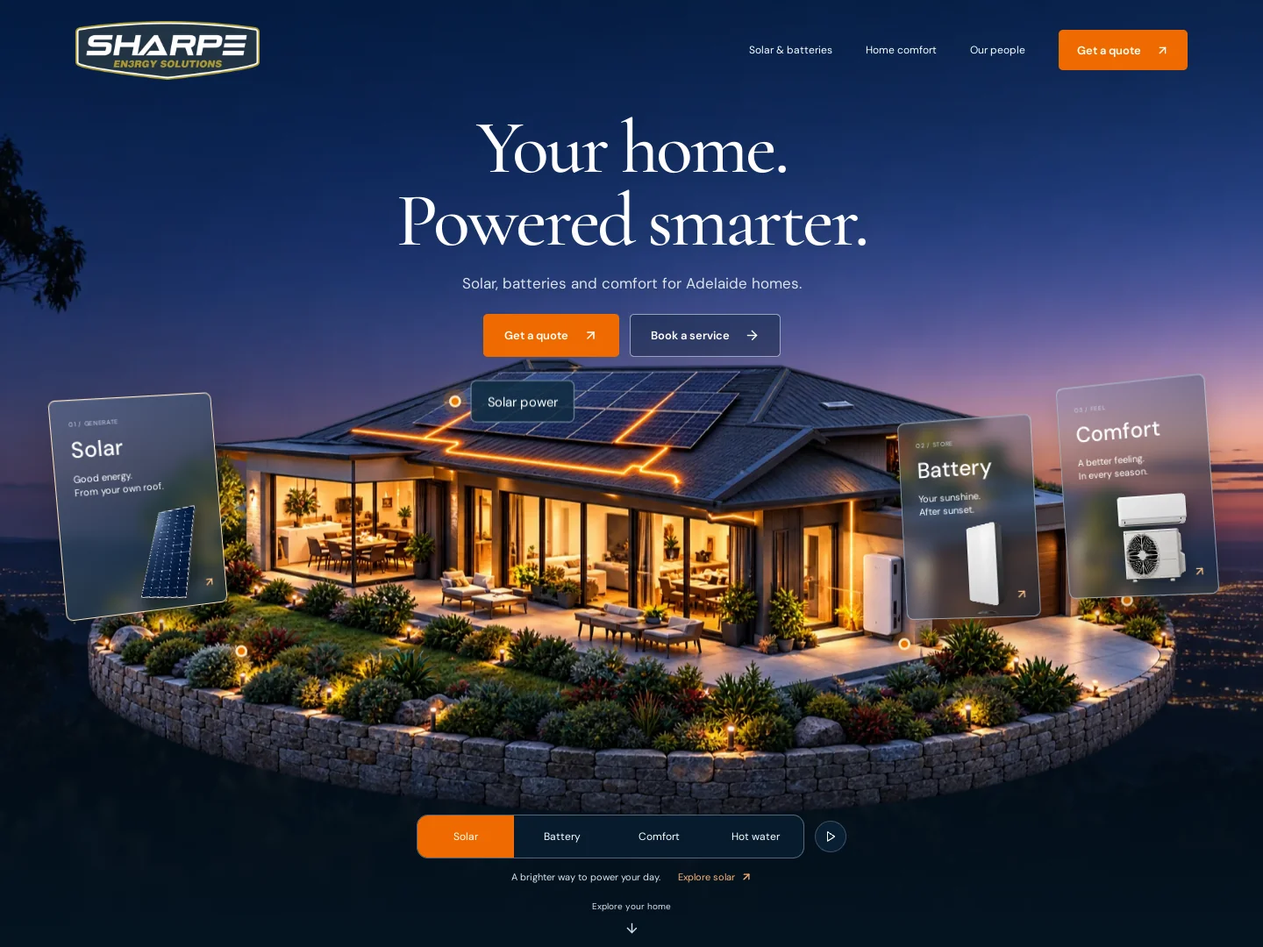
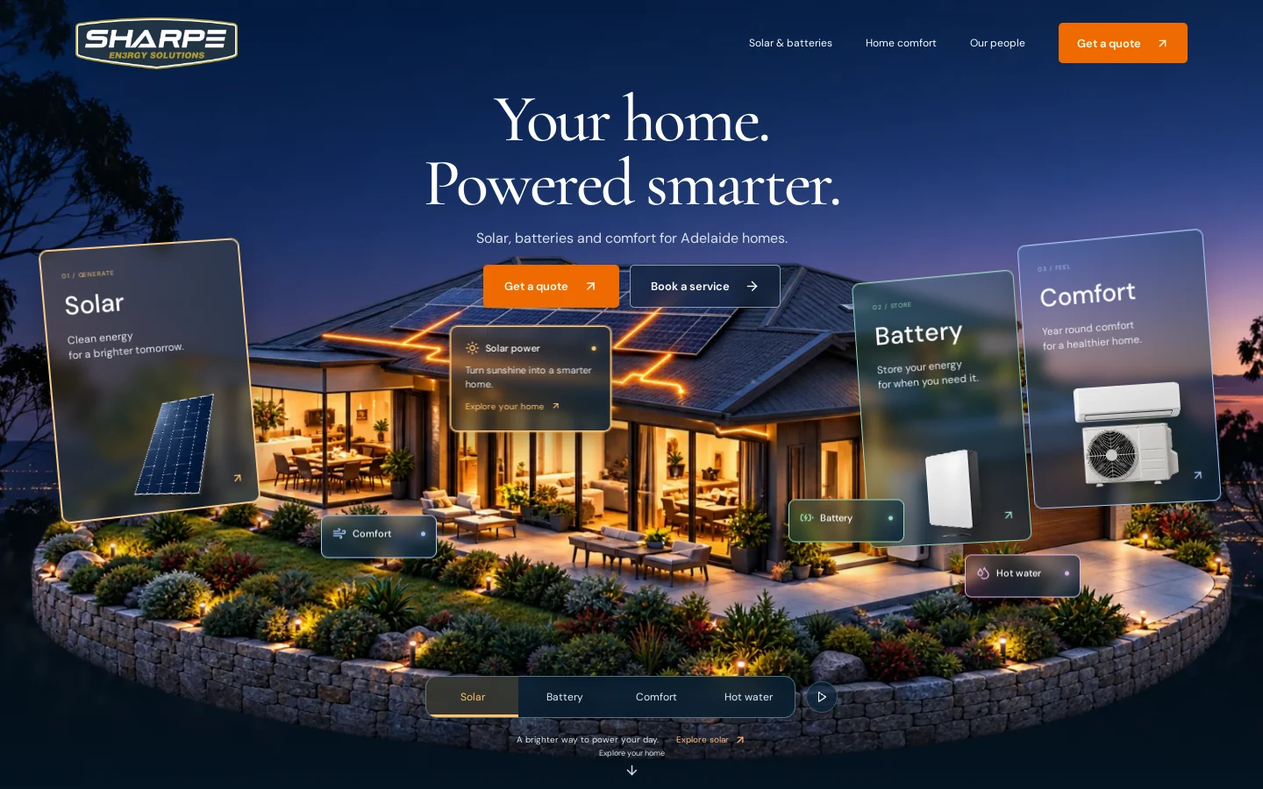
Reveal house-only hero on scroll and bring colour-coded glass service cards to the foreground

diff --git a/src/App.tsx b/src/App.tsx
@@ -3,6 +3,7 @@ import { ArrowDown, ArrowUpRight, ArrowRight, BatteryCharging, Sun, Wind, Drople
 import { PHONE, QUOTE_URL, SERVICE_URL, services } from './data';
 import type { ServiceId } from './data';
 import HeroScene from './HeroScene';
+import { useHeroReveal } from './useHeroReveal';
 const icons = { solar:Sun, battery:BatteryCharging, comfort:Wind, water:Droplets };
 function useReducedMotion() {
  const [reduced,setReduced]=useState(()=>window.matchMedia('(prefers-reduced-motion: reduce)').matches);
@@ -11,6 +12,7 @@ function useReducedMotion() {
 function Device({type}:{type:ServiceId}) {return <div className={`device device-${type}`} aria-hidden="true"/>}
 function App(){
  const [active,setActive]=useState<ServiceId>('solar');const [menu,setMenu]=useState(false);const reduced=useReducedMotion();const [paused,setPaused]=useState(false);const [inView,setInView]=useState(true);const hero=useRef<HTMLElement>(null);const tabs=useRef<(HTMLButtonElement|null)[]>([]);const selected=services.find(s=>s.id===active)!;const Icon=icons[active];
+ const story=useRef<HTMLDivElement>(null);const ready=useHeroReveal(story);
  const [choice,setChoice]=useState('solar');const [suburb,setSuburb]=useState('');const [quoteReady,setQuoteReady]=useState(false);
  useEffect(()=>{const io=new IntersectionObserver(([e])=>setInView(e.isIntersecting),{threshold:0.05});if(hero.current)io.observe(hero.current);return()=>io.disconnect()},[]);
  useEffect(()=>{const els=document.querySelectorAll('.reveal');const io=new IntersectionObserver(es=>es.forEach(e=>{if(e.isIntersecting){e.target.classList.add('revealed');io.unobserve(e.target)}}),{threshold:0.1});els.forEach(el=>io.observe(el));return()=>io.disconnect()},[]);
@@ -18,23 +20,27 @@ function App(){
  const closeMenu=()=>setMenu(false);
  return <>
  <a className="skip-link" href="#solutions">Skip to content</a>
- <header className="header"><a className="brand" href="#home" aria-label="Sharpe En3rgy Solutions home"><img src="/images/logo.webp" alt="Sharpe En3rgy Solutions" width="600" height="190"/></a><nav aria-label="Main navigation" className={menu?'nav nav-open':'nav'}><a href="#solar-battery" onClick={closeMenu}>Solar & batteries</a><a href="#solutions" onClick={closeMenu}>Home comfort</a><a href="#about" onClick={closeMenu}>Our people</a><a className="button button-small" href={QUOTE_URL}>Get a quote <ArrowUpRight size={15}/></a></nav><button className="menu-toggle" aria-label={menu?'Close menu':'Open menu'} aria-expanded={menu} onClick={()=>setMenu(!menu)}>{menu?<X/>:<Menu/>}</button></header>
+
  <main>
+ <div className="hero-story" ref={story}>
  <section className="hero" id="home" ref={hero} aria-labelledby="hero-heading">
+ <header className="header" inert={!ready} aria-hidden={!ready}><a className="brand" href="#home" aria-label="Sharpe En3rgy Solutions home"><img src="/images/logo.webp" alt="Sharpe En3rgy Solutions" width="600" height="190"/></a><nav aria-label="Main navigation" className={menu?'nav nav-open':'nav'}><a href="#solar-battery" onClick={closeMenu}>Solar & batteries</a><a href="#solutions" onClick={closeMenu}>Home comfort</a><a href="#about" onClick={closeMenu}>Our people</a><a className="button button-small" href={QUOTE_URL}>Get a quote <ArrowUpRight size={15}/></a></nav><button className="menu-toggle" aria-label={menu?'Close menu':'Open menu'} aria-expanded={menu} onClick={()=>setMenu(!menu)}>{menu?<X/>:<Menu/>}</button></header>
  <div className="hero-atmosphere"/><div className="hero-glow"/>
- <div className="hero-copy"><h1 id="hero-heading">Your home.<br/><em>Powered smarter.</em></h1><p className="hero-subtitle">Solar, batteries and comfort for Adelaide homes.</p><div className="hero-actions"><a className="button" href={QUOTE_URL}>Get a quote <ArrowUpRight size={17}/></a><a className="button button-glass" href={SERVICE_URL}>Book a service <ArrowRight size={17}/></a></div></div>
- <div className="home-experience"><HeroScene active={active} paused={paused||reduced||!inView} onSelect={setActive}/>
- <button className={`floating-card float-solar ${active==='solar'?'current':''}`} onClick={()=>setActive('solar')} aria-pressed={active==='solar'}><span className="mini-eyebrow">01 / GENERATE</span><h3>Solar</h3><p>Good energy.<br/>From your own roof.</p><Device type="solar"/><span className="card-corner"><ArrowUpRight size={15}/></span></button>
- <button className={`floating-card float-battery ${active==='battery'?'current':''}`} onClick={()=>setActive('battery')} aria-pressed={active==='battery'}><span className="mini-eyebrow">02 / STORE</span><h3>Battery</h3><p>Your sunshine.<br/>After sunset.</p><Device type="battery"/><span className="card-corner"><ArrowUpRight size={15}/></span></button>
- <button className={`floating-card float-comfort ${active==='comfort'?'current':''}`} onClick={()=>setActive('comfort')} aria-pressed={active==='comfort'}><span className="mini-eyebrow">03 / FEEL</span><h3>Comfort</h3><p>A better feeling.<br/>In every season.</p><Device type="comfort"/><span className="card-corner"><ArrowUpRight size={15}/></span></button>
+ <div className="hero-copy" inert={!ready} aria-hidden={!ready}><h1 id="hero-heading">Your home.<br/><em>Powered smarter.</em></h1><p className="hero-subtitle">Solar, batteries and comfort for Adelaide homes.</p><div className="hero-actions"><a className="button" href={QUOTE_URL}>Get a quote <ArrowUpRight size={17}/></a><a className="button button-glass" href={SERVICE_URL}>Book a service <ArrowRight size={17}/></a></div></div>
+ <div className="home-experience"><HeroScene active={active} paused={paused||reduced||!inView} ready={ready} onSelect={setActive}/>
+ <button className={`floating-card float-solar service-solar ${active==='solar'?'current':''}`} disabled={!ready} aria-hidden={!ready} onClick={()=>setActive('solar')} aria-pressed={active==='solar'}><span className="mini-eyebrow">01 / GENERATE</span><h3>Solar</h3><p>Clean energy<br/>for a brighter tomorrow.</p><Device type="solar"/><span className="card-corner"><ArrowUpRight size={15}/></span></button>
+ <button className={`floating-card float-battery service-battery ${active==='battery'?'current':''}`} disabled={!ready} aria-hidden={!ready} onClick={()=>setActive('battery')} aria-pressed={active==='battery'}><span className="mini-eyebrow">02 / STORE</span><h3>Battery</h3><p>Store your energy<br/>for when you need it.</p><Device type="battery"/><span className="card-corner"><ArrowUpRight size={15}/></span></button>
+ <button className={`floating-card float-comfort service-comfort ${active==='comfort'?'current':''}`} disabled={!ready} aria-hidden={!ready} onClick={()=>setActive('comfort')} aria-pressed={active==='comfort'}><span className="mini-eyebrow">03 / FEEL</span><h3>Comfort</h3><p>Year round comfort<br/>for a healthier home.</p><Device type="comfort"/><span className="card-corner"><ArrowUpRight size={15}/></span></button>
  <div className="scene-caption" aria-live="polite"><Icon size={16}/><span>{selected.title}</span><span className="caption-dot"/>{selected.short}</div>
  </div>
- <div className="explorer-controls"><div className="service-tabs" role="tablist" aria-label="Explore your home">{services.map((s,i)=><button key={s.id} ref={el=>{tabs.current[i]=el}} id={`tab-${s.id}`} role="tab" aria-selected={active===s.id} aria-controls="service-detail" tabIndex={active===s.id?0:-1} onClick={()=>setActive(s.id)} onKeyDown={e=>{let next=i;if(e.key==='ArrowRight')next=(i+1)%4;else if(e.key==='ArrowLeft')next=(i+3)%4;else if(e.key==='Home')next=0;else if(e.key==='End')next=3;else return;e.preventDefault();setActive(services[next].id);tabs.current[next]?.focus()}}>{s.label}</button>)}</div><button className="motion-toggle" onClick={()=>setPaused(!paused)} disabled={reduced} aria-label={paused?'Resume gentle motion':'Pause gentle motion'}>{paused||reduced?<Play size={14}/>:<Pause size={14}/>}</button></div>
- <div className="explorer-detail" id="service-detail" role="tabpanel" aria-labelledby={`tab-${active}`}><span>{selected.short}</span><a href={`#${active}`}>Explore {selected.label.toLowerCase()} <ArrowUpRight size={14}/></a></div>
- <a className="scroll-cue" href="#solutions"><span>Explore your home</span><ArrowDown size={17}/></a>
+ <div className="explorer-controls" inert={!ready} aria-hidden={!ready}><div className="service-tabs" role="tablist" aria-label="Explore your home">{services.map((s,i)=><button className={`service-${s.id}`} key={s.id} ref={el=>{tabs.current[i]=el}} id={`tab-${s.id}`} role="tab" aria-selected={active===s.id} aria-controls="service-detail" tabIndex={active===s.id?0:-1} onClick={()=>setActive(s.id)} onKeyDown={e=>{let next=i;if(e.key==='ArrowRight')next=(i+1)%4;else if(e.key==='ArrowLeft')next=(i+3)%4;else if(e.key==='Home')next=0;else if(e.key==='End')next=3;else return;e.preventDefault();setActive(services[next].id);tabs.current[next]?.focus()}}>{s.label}</button>)}</div><button className="motion-toggle" onClick={()=>setPaused(!paused)} disabled={reduced} aria-label={paused?'Resume gentle motion':'Pause gentle motion'}>{paused||reduced?<Play size={14}/>:<Pause size={14}/>}</button></div>
+ <div inert={!ready} aria-hidden={!ready} className="explorer-detail" id="service-detail" role="tabpanel" aria-labelledby={`tab-${active}`}><span>{selected.short}</span><a href={`#${active}`}>Explore {selected.label.toLowerCase()} <ArrowUpRight size={14}/></a></div>
+ <a className="scroll-cue" inert={!ready} aria-hidden={!ready} href="#solutions"><span>Explore your home</span><ArrowDown size={17}/></a>
+ <button className="intro-cue" aria-label="Explore the connected home" onClick={()=>{if(story.current){const y=window.scrollY+story.current.getBoundingClientRect().top+(hero.current?.offsetHeight||window.innerHeight)*.65;window.scrollTo({top:y,behavior:reduced?'instant':'smooth'})}}}><span>SCROLL TO EXPLORE</span><ArrowDown size={18}/></button>
  </section>
- <section className="solutions soft-section" id="solutions" aria-labelledby="solutions-title"><div className="section-photo"/><div className="solutions-shade"/><div className="container solutions-layout"><div className="section-intro reveal"><p className="eyebrow light"><span/> ONE CONNECTED HOME</p><h2 id="solutions-title">One home.<br/>Connected<br/>solutions.</h2><p>A smarter, more comfortable and more efficient home, all working together.</p><a className="text-link light-link" href={QUOTE_URL}>Let’s talk about your home <ArrowUpRight size={18}/></a></div><div className="services-grid">{services.map((s,i)=>{const I=icons[s.id];return <a className="service-card glass reveal" href={s.url} key={s.id} id={s.id} style={{transitionDelay:`${i*60}ms`}}><div className="service-top"><I size={20}/><span>0{i+1}</span></div><Device type={s.id}/><div><h3>{s.title}</h3><p>{s.short}</p></div><ArrowUpRight className="service-arrow" size={19}/></a>})}</div></div></section>
- <section className="solar-feature cream soft-section" id="solar-battery"><div className="container feature-layout"><div className="feature-image reveal"><img src="/images/solar-roof.webp" alt="Illustrative rooftop solar panels in Adelaide sunshine" width="1672" height="941" loading="lazy"/><div className="image-note glass"><div><strong>Battery storage</strong><p>Store excess solar<br/>and use it when<br/>you need it.</p></div><Device type="battery"/></div></div><div className="feature-copy reveal"><span className="feature-number" aria-hidden="true">01</span><h2>Make more<br/>of your solar.</h2><p>Find a solar and battery solution tailored to your home.</p><a className="text-link" href={QUOTE_URL}>Explore Solar & Batteries <ArrowUpRight size={18}/></a><div className="feature-points"><span><Sun size={17}/> Energy from your roof</span><span><BatteryCharging size={17}/> Storage for later</span></div></div></div></section>
+ </div>
+ <section className="solutions soft-section" id="solutions" aria-labelledby="solutions-title"><div className="section-photo"/><div className="solutions-shade"/><div className="container solutions-layout"><div className="section-intro reveal"><p className="eyebrow light"><span/> ONE CONNECTED HOME</p><h2 id="solutions-title">One home.<br/>Connected<br/>solutions.</h2><p>A smarter, more comfortable and more efficient home, all working together.</p><a className="text-link light-link" href={QUOTE_URL}>Let’s talk about your home <ArrowUpRight size={18}/></a></div><div className="services-grid">{services.map((s,i)=>{const I=icons[s.id];return <a className={`service-card glass reveal service-${s.id}`} href={s.url} key={s.id} id={s.id} style={{transitionDelay:`${i*60}ms`}}><div className="service-top"><I size={20}/><span>0{i+1}</span></div><Device type={s.id}/><div><h3>{s.title}</h3><p>{s.short}</p></div><ArrowUpRight className="service-arrow" size={19}/></a>})}</div></div></section>
+ <section className="solar-feature cream soft-section" id="solar-battery"><div className="container feature-layout"><div className="feature-image reveal"><img src="/images/solar-roof.webp" alt="Illustrative rooftop solar panels in Adelaide sunshine" width="1672" height="941" loading="lazy"/><div className="image-note glass service-battery"><div><strong>Battery storage</strong><p>Store excess solar<br/>and use it when<br/>you need it.</p></div><Device type="battery"/></div></div><div className="feature-copy reveal"><span className="feature-number" aria-hidden="true">01</span><h2>Make more<br/>of your solar.</h2><p>Find a solar and battery solution tailored to your home.</p><a className="text-link" href={QUOTE_URL}>Explore Solar & Batteries <ArrowUpRight size={18}/></a><div className="feature-points"><span><Sun size={17}/> Energy from your roof</span><span><BatteryCharging size={17}/> Storage for later</span></div></div></div></section>
  <section className="process soft-section" id="process"><div className="section-photo"/><div className="process-shade"/><div className="container"><div className="process-heading reveal"><p className="eyebrow light"><span/> SIMPLE FROM THE START</p><h2>From first conversation<br/>to a better home.</h2><p>Good advice. The right fit. Support along the way.</p></div><div className="steps">{[{n:'01',title:'Talk to us',text:'Your routine, your space and what you want to improve. We start by listening.',I:MessageCircle},{n:'02',title:'Find your solution',text:'Explore solar, storage and comfort options suited to the way you live.',I:ClipboardList},{n:'03',title:'Installation & support',text:'Arrange installation or service, with a team you can come back to for support.',I:Wrench}].map(({n,title,text,I})=><article className="step glass reveal" key={n}><div><span className="step-number">{n}</span><I size={27}/></div><h3>{title}</h3><p>{text}</p></article>)}</div></div></section>
  <section className="about cream soft-section" id="about"><div className="container about-layout"><div className="about-copy reveal"><p className="eyebrow"><span/> RIGHT HERE IN ADELAIDE</p><h2>Local people.<br/>Practical advice.</h2><p>Helping Adelaide homeowners choose the right solution.</p><a className="text-link" href="tel:+61882946333">Talk to the team <ArrowUpRight size={18}/></a><div className="location-pill"><MapPin size={18}/><span>49 Port Road, Thebarton<br/><small>Adelaide, South Australia</small></span></div></div><div className="about-image reveal"><img src="/images/team.webp" alt="En3rgy Solutions technician working on rooftop solar, from the company's website" width="1000" height="667" loading="lazy"/><span className="photo-label glass">GOOD ENERGY STARTS WITH GOOD PEOPLE</span></div></div></section>
  <section className="service-banner soft-section"><div className="container banner-layout"><div className="reveal"><p className="eyebrow light"><span/> SERVICE & SUPPORT</p><h2>Keep your home<br/>working at its best.</h2><p>Efficient, reliable air conditioning<br/>for year round comfort.</p><a className="button" href={SERVICE_URL}>Book a service <ArrowUpRight size={18}/></a></div></div></section>

diff --git a/src/hero.css b/src/hero.css
@@ -1,0 +1,120 @@
+/* The house opens alone. Native page scroll reveals the connected-home UI. */
+.hero-story{--hero-progress:0;--copy-opacity:0;--card-opacity:0;height:185svh;min-height:1250px;position:relative;background:#061827}
+.hero-story .hero{position:sticky;top:0;height:100svh;min-height:620px;padding:0;text-align:center;overflow:hidden}
+.hero .header{z-index:12;padding:20px 6%;opacity:var(--copy-opacity);transform:translateY(calc((1 - var(--hero-progress))*-12px))}
+.hero .brand img{width:185px}
+.hero .hero-atmosphere{background:linear-gradient(#05192a66,#05192a00 48%,#041321 100%),url('/images/twilight.webp') center/cover}
+.hero-copy{position:absolute;z-index:8;left:0;right:0;top:11%;padding:0 20px;opacity:var(--copy-opacity);transform:translateY(calc((1 - var(--hero-progress))*20px));pointer-events:auto}
+.hero-copy h1{font-size:clamp(56px,5.3vw,84px)}
+.hero-copy .hero-subtitle{font-size:16px;margin-top:14px}
+.hero-copy .hero-actions{margin-top:18px}
+.home-experience{position:absolute;inset:0;width:100%;height:100%;max-width:none;margin:0}
+.hero .scene{position:absolute;inset:0;transform:none;z-index:1}
+.house-position{position:absolute;width:min(96%,calc(100svh * 1.75));aspect-ratio:1.5;left:50%;top:50%;transform:translate(-50%,-50%) translateY(calc(var(--hero-progress)*12svh))}
+.hero .house-parallax{position:relative;width:100%;height:100%;transform:translate(var(--px,0px),var(--py,0px));transition:transform .35s ease-out}
+.hero .house-float{position:relative;width:100%;height:100%;animation:float 8s ease-in-out infinite}
+.hero .hero-house{position:absolute;inset:0;width:100%;height:100%;object-fit:contain;animation:house-arrive 1.1s ease-out both}
+.hero .scene.is-paused .house-float{animation-play-state:paused}
+.hero .scene.is-paused .house-parallax{transform:none}
+.intro-cue{position:absolute;z-index:14;bottom:7%;left:50%;transform:translateX(-50%);display:flex;flex-direction:column;align-items:center;gap:15px;padding:16px 24px;min-height:60px;background:#09233a44;border:1px solid #a9c7dd40;border-radius:30px;color:#e4edf5;opacity:calc(1 - var(--hero-progress));font-size:9px;letter-spacing:.2em}
+.hero-story:has(.hero-copy:not([inert])) .intro-cue{pointer-events:none;visibility:hidden}
+.hero .floating-card{--service-accent:#ffb760;--service-tint:#d8912522;display:flex;flex-direction:column;justify-content:flex-start;align-items:flex-start;position:absolute;z-index:4;width:clamp(180px,16vw,235px);height:clamp(280px,34svh,330px);padding:24px 22px;border:1px solid color-mix(in srgb,var(--service-accent) 60%,#dcecff);border-radius:9px;text-align:left;background:linear-gradient(135deg,var(--service-tint),#0a243abf);backdrop-filter:blur(7px);box-shadow:0 16px 35px #0003,inset 0 1px #fff3;opacity:var(--card-opacity);transition:border-color .25s,box-shadow .25s}
+.hero .floating-card:disabled{cursor:default}
+.hero .floating-card.current{box-shadow:0 0 0 1px var(--service-accent),0 16px 38px #0004}
+.hero .floating-card h3{font-size:clamp(24px,2vw,30px);margin:10px 0 12px}
+.hero .floating-card p{font-size:12px;line-height:1.45;color:#e7edf3;max-width:150px}
+.hero .mini-eyebrow{font-size:7px;color:var(--service-accent);letter-spacing:.13em}
+.hero .card-corner{color:var(--service-accent);bottom:16px;right:16px}
+.hero .float-solar{left:4%;top:31%;transform:perspective(1100px) rotateY(10deg) rotateZ(-5deg) translateY(calc((1 - var(--hero-progress))*28px))}
+.hero .float-battery{right:19%;top:35%;width:clamp(160px,13vw,200px);transform:perspective(1100px) rotateY(-8deg) rotateZ(-4deg) translateY(calc((1 - var(--hero-progress))*34px))}
+.hero .float-comfort{right:4%;top:30%;width:clamp(180px,15vw,225px);transform:perspective(1100px) rotateY(-10deg) rotateZ(-4deg) translateY(calc((1 - var(--hero-progress))*40px))}
+.device{aspect-ratio:1.5;background-size:200% 200%}
+.hero .floating-card .device{width:80%;height:auto;aspect-ratio:1.5;right:5%;bottom:10px}
+.hero .float-comfort .device{width:94%;right:1%;bottom:8px}
+.hero .float-battery .device{width:84%;right:4%;bottom:8px}
+.service-solar,.hotspot-solar{--service-accent:#ffc16b;--service-tint:#c3832938}
+.service-battery,.hotspot-battery{--service-accent:#99debb;--service-tint:#3b987538}
+.service-comfort,.hotspot-comfort{--service-accent:#a4caff;--service-tint:#518fd738}
+.service-water,.hotspot-water{--service-accent:#e6b1ee;--service-tint:#a45cac38}
+.hero .floating-card.service-battery,.hero .floating-card.service-comfort{border-color:var(--service-accent)}
+.hero .floating-card.service-solar{--service-accent:#ffc16b;--service-tint:#c3832938}
+.hero .floating-card.service-battery{--service-accent:#99debb;--service-tint:#3b987538}
+.hero .floating-card.service-comfort{--service-accent:#a4caff;--service-tint:#518fd738}
+/* Small service cards live above the permanent cards, independently of house motion. */
+.spot-overlay{position:absolute;inset:0;z-index:6;pointer-events:none;opacity:var(--card-opacity)}
+.hero .hotspot{position:absolute;transform:translate(-50%,-50%);display:flex;align-items:stretch;flex-direction:column;gap:0;text-align:left;width:132px;min-height:49px;padding:12px;border:1px solid var(--service-accent);border-radius:8px;background:linear-gradient(135deg,var(--service-tint),#092135e8);backdrop-filter:blur(6px);color:white;box-shadow:0 8px 25px #0004;pointer-events:auto;transition:width .2s,box-shadow .2s}
+.hero .hotspot.selected{width:185px;min-height:120px;padding:16px;box-shadow:0 0 0 1px var(--service-accent),0 10px 30px #0005}
+.hotspot-heading{display:flex;align-items:center;gap:7px;font-size:11px;white-space:nowrap}
+.hotspot-heading strong{font-weight:500}
+.hotspot-heading>svg{color:var(--service-accent);flex-shrink:0}
+.hero .hotspot-dot{margin-left:auto;width:5px;height:5px;box-shadow:0 0 9px var(--service-accent);border:0;background:var(--service-accent);flex-shrink:0}
+.hotspot-description,.hotspot-more{display:none}
+.selected .hotspot-description{display:block;font-size:11px;line-height:1.45;margin-top:10px;color:#e1e8ef}
+.selected .hotspot-more{display:flex;align-items:center;gap:7px;font-size:10px;margin-top:10px;color:var(--service-accent)}
+.hero .hotspot-solar{left:42%;top:48%}
+.hero .hotspot-battery{left:67%;top:66%}
+.hero .hotspot-comfort{left:30%;top:68%}
+.hero .hotspot-water{left:81%;top:73%}
+.hero .explorer-controls{position:absolute;z-index:9;bottom:9%;left:0;right:0;margin:0;opacity:var(--card-opacity);transform:translateY(calc((1 - var(--hero-progress))*20px))}
+.hero .service-tabs{border-color:#b4cad578;background:#071e30e0}
+.hero .service-tabs button{min-width:105px;min-height:46px;color:#e3edf5}
+.hero .service-tabs button[aria-selected=true]{background:var(--service-tint);color:var(--service-accent);box-shadow:inset 0 -3px var(--service-accent)}
+.hero .explorer-detail{position:absolute;left:0;right:0;bottom:5.5%;z-index:9;margin:0;opacity:var(--card-opacity);font-size:10px}
+.hero .scroll-cue{position:absolute;left:0;right:0;bottom:1.4%;z-index:9;margin:0;opacity:var(--card-opacity);font-size:9px;gap:5px}
+/* Cards in the following section use the same glass, colours and product proportions. */
+.service-card{border-color:color-mix(in srgb,var(--service-accent) 65%,#ffffff);background:linear-gradient(135deg,var(--service-tint),#082438bf);min-height:225px;padding:23px 22px}
+.service-card h3{font-size:21px}.service-card p{max-width:140px;font-size:12px}
+.service-card .device{width:145px;height:auto;aspect-ratio:1.5;right:-2px;bottom:5px}
+.service-card.service-comfort .device{width:165px;right:-8px;bottom:0}
+.service-card .service-arrow{color:var(--service-accent)}
+.image-note .device{width:140px;height:auto;aspect-ratio:1.5;bottom:17px;right:-8px}
+@keyframes house-arrive{from{opacity:0;translate:0 10px}to{opacity:1;translate:0 0}}
+@media(max-width:1100px){
+ .hero .header{padding:18px 5%}.hero .brand img{width:155px}.hero-copy h1{font-size:65px}.hero-copy .hero-subtitle{font-size:14px}
+ .hero .floating-card{width:168px;height:245px;padding:20px 17px}.hero .floating-card h3{font-size:24px}.hero .floating-card p{font-size:11px}
+ .hero .float-solar{left:3%;top:32%}.hero .float-battery{right:19%;width:140px;top:36%}.hero .float-comfort{right:3%;width:160px;top:31%}
+ .hero .hotspot-solar{left:42%;top:51%}.hero .hotspot-comfort{left:29%;top:69%}.hero .hotspot-battery{left:66%;top:68%}
+ .service-card{min-height:205px;padding:20px 16px}.service-card h3{font-size:18px}.service-card p{max-width:105px;font-size:11px}.service-card .device{width:125px}.service-card.service-comfort .device{width:135px}
+}
+@media(max-width:800px) and (min-width:601px){
+ .hero-copy{top:12%}.hero-copy h1{font-size:63px}.hero-copy .hero-subtitle{font-size:13px}
+ .house-position{width:100%;transform:translate(-50%,-50%) translateY(calc(var(--hero-progress)*12svh))}
+ .hero .floating-card{width:150px;height:230px;padding:18px 15px}.hero .float-solar{left:3%;top:35%}.hero .float-battery{width:125px;right:21%;top:38%}.hero .float-comfort{width:145px;right:3%;top:34%}
+ .hero .floating-card h3{font-size:23px}.hero .floating-card p{font-size:10px}.hero .hotspot-solar{top:55%}.hero .hotspot-battery{top:70%}.hero .hotspot-comfort{top:72%}.hero .hotspot-water{top:75%}
+ .hero .hotspot{width:125px}.hero .hotspot.selected{width:162px;min-height:108px;padding:13px}
+ .service-card h3{font-size:16px}.service-card p{max-width:94px;font-size:10px}.service-card .device{width:110px}.service-card.service-comfort .device{width:120px}
+}
+@media(max-width:600px){
+ .hero-story{height:180svh;min-height:1080px}.hero-story .hero{height:100svh;min-height:600px}
+ .hero .header{padding:16px 20px}.hero .brand img{width:140px}
+ .hero-copy{top:12%;padding:0 16px}.hero-copy h1{font-size:clamp(41px,12vw,58px)}.hero-copy .hero-subtitle{font-size:12px;max-width:290px;margin:13px auto 0}.hero-copy .hero-actions{margin-top:18px}
+ .hero-copy .hero-actions .button{font-size:11px;padding:12px 14px;min-height:44px;gap:8px}
+ .hero .home-experience{height:100%;margin:0;inset:0}.hero .scene{inset:0;transform:none}
+ .house-position{width:100%;transform:translate(-50%,-50%) translateY(calc(var(--hero-progress)*15svh))}
+ .hero .floating-card{top:38%;width:29%;max-width:140px;height:clamp(140px,18svh,160px);padding:13px 11px;border-radius:7px}
+ .hero .float-solar{left:3%;top:38%}.hero .float-battery{left:35.5%;right:auto;top:39%;width:29%}.hero .float-comfort{right:3%;top:38%;width:29%}
+ .hero .floating-card h3{font-size:18px;margin:7px 0 8px}.hero .mini-eyebrow{font-size:5px}.hero .floating-card p{display:block;font-size:9px;line-height:1.35;max-width:98px}
+ .hero .floating-card .device{width:90%;bottom:2px;right:0;height:auto;aspect-ratio:1.5}.hero .float-comfort .device{width:102%;right:-4%;bottom:0}
+ .hero .card-corner{bottom:6px;right:6px}.hero .card-corner svg{width:10px}
+ .spot-overlay{inset:auto 4% 17%;height:58px;display:grid;grid-template-columns:repeat(4,1fr);gap:6px}
+ .hero .hotspot,.hero .hotspot.selected{position:relative;left:auto;top:auto!important;transform:none;width:100%;min-height:56px;padding:9px 5px;display:flex;justify-content:center;align-items:center;border-radius:7px}
+ .hotspot-heading{flex-direction:column;gap:6px;font-size:8px;white-space:normal;text-align:center}.hotspot-heading>svg{width:15px;height:15px}.hero .hotspot-dot{display:none}.hero .hotspot .hotspot-description,.hero .hotspot .hotspot-more{display:none}
+ .hero .hotspot.selected{background:linear-gradient(var(--service-tint),#092135f5);box-shadow:0 0 0 1px var(--service-accent),0 6px 20px #0004}
+ .hero .explorer-controls{bottom:9.5%;gap:7px}.hero .service-tabs button{min-width:0;min-height:43px;padding:0 14px;font-size:10px}
+ .hero .explorer-detail{bottom:5.5%;font-size:9px;gap:5px}.hero .scroll-cue{bottom:1.1%;font-size:8px;gap:3px}.intro-cue{bottom:9%;font-size:8px;gap:12px}
+ .service-card{min-height:215px;padding:20px 17px}.service-card h3{font-size:18px}.service-card p{font-size:11px;max-width:118px}.service-card .device{width:130px;right:-3px;bottom:4px}.service-card.service-comfort .device{width:140px;right:-7px}
+ .image-note .device{width:108px;right:-5px;bottom:14px}
+}
+@media(max-width:360px){
+ .hero-copy{top:12%}.hero-copy h1{font-size:41px}.hero-copy .hero-subtitle{font-size:11px;max-width:260px}.hero-copy .hero-actions .button{font-size:10px;padding:11px 12px}
+ .hero .floating-card{padding:11px 9px;height:138px;top:39%}.hero .float-battery{top:40%}.hero .floating-card h3{font-size:16px}.hero .floating-card p{font-size:7px}.hero .mini-eyebrow{font-size:4px}
+ .hero .service-tabs button{padding:0 11px}.spot-overlay{left:3%;right:3%;gap:5px;bottom:17%}.hotspot-heading{font-size:7px}.service-card h3{font-size:16px}.service-card .device{width:112px}.service-card.service-comfort .device{width:125px}
+}
+@media(max-height:760px) and (min-width:801px){
+ .hero-copy{top:11%}.hero-copy h1{font-size:58px}.hero-copy .hero-subtitle{font-size:13px;margin-top:10px}.hero-copy .hero-actions{margin-top:12px}.hero-copy .button{padding:12px 18px}
+ .hero .floating-card{height:255px;top:32%;padding:18px}.hero .float-battery{top:35%}.hero .float-comfort{top:31%}.hero .floating-card h3{font-size:23px}.hero .hotspot-solar{top:51%}
+ .hero .explorer-controls{bottom:8%}.hero .explorer-detail{bottom:4.5%}.hero .scroll-cue{bottom:.5%}
+}
+@media(prefers-reduced-motion:reduce){
+ .hero .house-float,.hero .hero-house{animation:none!important}.hero .house-parallax{transform:none!important}.hero-copy,.hero .header,.hero .floating-card,.hero .explorer-controls{transform:none!important}.house-position{transform:translate(-50%,-50%) translateY(calc(var(--hero-progress)*12svh))}
+}

diff --git a/src/HeroScene.tsx b/src/HeroScene.tsx
@@ -1,15 +1,23 @@
 import { useRef } from 'react';
+import { ArrowUpRight, BatteryCharging, Sun, Wind, Droplets } from 'lucide-react';
 import type { ServiceId } from './data';
-const spots: {id:ServiceId;label:string;x:string;y:string}[]=[
- {id:'solar',label:'Solar power',x:'43%',y:'28%'},
- {id:'battery',label:'Battery storage',x:'70%',y:'61%'},
- {id:'comfort',label:'Home comfort',x:'31%',y:'62%'},
- {id:'water',label:'Hot water',x:'82%',y:'55%'}
-];
-export default function HeroScene({active,paused,onSelect}:{active:ServiceId;paused:boolean;onSelect:(id:ServiceId)=>void}){
+const spots=[
+ {id:'solar',label:'Solar power',description:'Turn sunshine into a smarter home.',Icon:Sun},
+ {id:'battery',label:'Battery',description:'Store your sunshine for later.',Icon:BatteryCharging},
+ {id:'comfort',label:'Comfort',description:'Feel at home in every season.',Icon:Wind},
+ {id:'water',label:'Hot water',description:'Smarter everyday comfort.',Icon:Droplets}
+] as const;
+export default function HeroScene({active,paused,ready,onSelect}:{active:ServiceId;paused:boolean;ready:boolean;onSelect:(id:ServiceId)=>void}){
  const layer=useRef<HTMLDivElement>(null);
- return <div className={`scene ${paused?'is-paused':''}`} onPointerMove={e=>{if(paused||e.pointerType!=='mouse')return;const r=e.currentTarget.getBoundingClientRect();layer.current?.style.setProperty('--px',`${((e.clientX-r.left)/r.width-.5)*10}px`);layer.current?.style.setProperty('--py',`${((e.clientY-r.top)/r.height-.5)*6}px`)}} onPointerLeave={()=>{layer.current?.style.setProperty('--px','0px');layer.current?.style.setProperty('--py','0px')}}>
- <div className="house-parallax" ref={layer}><div className="house-float"><img className="hero-house" src="/images/hero-house.webp" alt="Illustrative solar-powered home with a battery, warm interiors and landscaped garden at dusk" width="1536" height="1024" fetchPriority="high"/>
- <div className="hotspots">{spots.map(s=><button key={s.id} style={{left:s.x,top:s.y}} className={`hotspot ${active===s.id?'selected':''}`} onClick={()=>onSelect(s.id)} aria-label={`Explore ${s.label}`} aria-pressed={active===s.id}><span className="hotspot-dot"/><span className="hotspot-label">{s.label}</span></button>)}</div>
- </div></div></div>
+ return <>
+ <div className={`scene ${paused?'is-paused':''}`} onPointerMove={e=>{if(paused||e.pointerType!=='mouse')return;const r=e.currentTarget.getBoundingClientRect();layer.current?.style.setProperty('--px',`${((e.clientX-r.left)/r.width-.5)*10}px`);layer.current?.style.setProperty('--py',`${((e.clientY-r.top)/r.height-.5)*6}px`)}} onPointerLeave={()=>{layer.current?.style.setProperty('--px','0px');layer.current?.style.setProperty('--py','0px')}}>
+  <div className="house-position"><div className="house-parallax" ref={layer}><div className="house-float"><img className="hero-house" src="/images/hero-house.webp" alt="Illustrative solar-powered home with a battery, warm interiors and landscaped garden at dusk" width="1536" height="1024" fetchPriority="high"/></div></div></div>
+ </div>
+ <div className="spot-overlay" inert={!ready} aria-hidden={!ready}>
+ {spots.map(({id,label,description,Icon})=><button key={id} className={`hotspot hotspot-${id} ${active===id?'selected':''}`} onClick={()=>onSelect(id)} aria-label={`Explore ${id==='battery'?'Battery storage':id==='comfort'?'Home comfort':label}`} aria-pressed={active===id}>
+  <span className="hotspot-heading"><Icon size={16}/><strong>{label}</strong><span className="hotspot-dot"/></span>
+  <span className="hotspot-description">{description}</span><span className="hotspot-more">Explore your home <ArrowUpRight size={12}/></span>
+ </button>)}
+ </div>
+ </>
 }

diff --git a/src/useHeroReveal.ts b/src/useHeroReveal.ts
@@ -1,0 +1,25 @@
+import { useEffect, useState } from 'react';
+import type { RefObject } from 'react';
+
+/** Native scrolling drives the reveal; no wheel/touch interception or scroll lock. */
+export function useHeroReveal(story: RefObject<HTMLDivElement | null>) {
+ const [ready,setReady]=useState(false);
+ useEffect(()=>{
+  const root=story.current;if(!root)return;
+  let frame=0;let previous=false;
+  const update=()=>{
+   frame=0;
+   const height=root.querySelector<HTMLElement>('.hero')?.offsetHeight||window.innerHeight;
+   const progress=Math.max(0,Math.min(1,-root.getBoundingClientRect().top/(height*.58)));
+   root.style.setProperty('--hero-progress',String(progress));
+   root.style.setProperty('--copy-opacity',String(Math.max(0,Math.min(1,(progress-.06)/.52))));
+   root.style.setProperty('--card-opacity',String(Math.max(0,Math.min(1,(progress-.2)/.62))));
+   const next=progress>.28;
+   if(next!==previous){previous=next;setReady(next)}
+  };
+  const queue=()=>{if(!frame)frame=requestAnimationFrame(update)};
+  update();window.addEventListener('scroll',queue,{passive:true});window.addEventListener('resize',queue);
+  return()=>{cancelAnimationFrame(frame);window.removeEventListener('scroll',queue);window.removeEventListener('resize',queue)};
+ },[story]);
+ return ready;
+}

diff --git a/src/main.tsx b/src/main.tsx
@@ -7,4 +7,5 @@ import '@fontsource/cormorant-garamond/latin-500.css';
 import '@fontsource/cormorant-garamond/latin-600.css';
 import App from './App';
 import './styles.css';
+import './hero.css';
 ReactDOM.createRoot(document.getElementById('root')!).render(<React.StrictMode><App /></React.StrictMode>);

diff --git a/README.md b/README.md
@@ -2,7 +2,9 @@
 
 An independent, responsive website concept created by Lucas De Rossa. A photorealistic layered house with subtle floating motion and pointer parallax is the centre of an interactive solar / battery / comfort / hot water showroom. The home and twilight photography are illustrative. The original logo is supplied by the project owner; the technician photo is sourced from the company website.
 
-![Desktop hero preview](docs/hero-preview.webp)
+![House-only entrance](docs/hero-intro.webp)
+
+![Desktop hero after scrolling](docs/hero-preview.webp)
 
 ## Development
 
@@ -30,7 +32,9 @@ Choose your project name before deploying; it determines the initial `pages.dev`
 
 ## Interaction and accessibility
 
-Four service tabs and clickable hotspots select solar, battery, comfort and hot water explanations. The house is a transparent raster image with 2.5D motion, not a rotatable 360-degree model. Animation pauses off-screen; a pause control and reduced-motion preference are supported. All controls and content are accessible HTML. No WebGL is required. Touch keeps normal vertical scrolling. Sections have clean boundaries, with no blurred transition bands. Keyboard tabs support Left/Right, Home and End.
+The first viewport shows only the complete house and an accessible “Scroll to explore” cue. Normal page scrolling progressively reveals the header, title and glass cards while the hero remains pinned for a short introduction. Clicking the cue or activating it with the keyboard also reveals the page. Scrolling back to the top restores the house-only view.
+
+Four service tabs and clickable foreground cards select solar, battery, comfort and hot water explanations. Their consistent accent colours are amber, mint, blue and lilac respectively. Hidden controls are inert, and the small cards sit above the larger cards rather than inside the moving image layer. On mobile, the four small controls form a readable row below the house. The house is a transparent raster image with 2.5D motion, not a rotatable 360-degree model. Animation pauses off-screen; a pause control and reduced-motion preference are supported. All controls and content are accessible HTML. No WebGL is required. Touch keeps normal vertical scrolling. The entrance uses opacity, not blur. Sections have clean boundaries, with no blurred transition bands. Keyboard tabs support Left/Right, Home and End.
 
 A local quote helper selects a service and suburb. It does not transmit or persist personal data; it directs visitors to the official quote system. No testimonials, savings figures or customer installation claims are invented.
 
